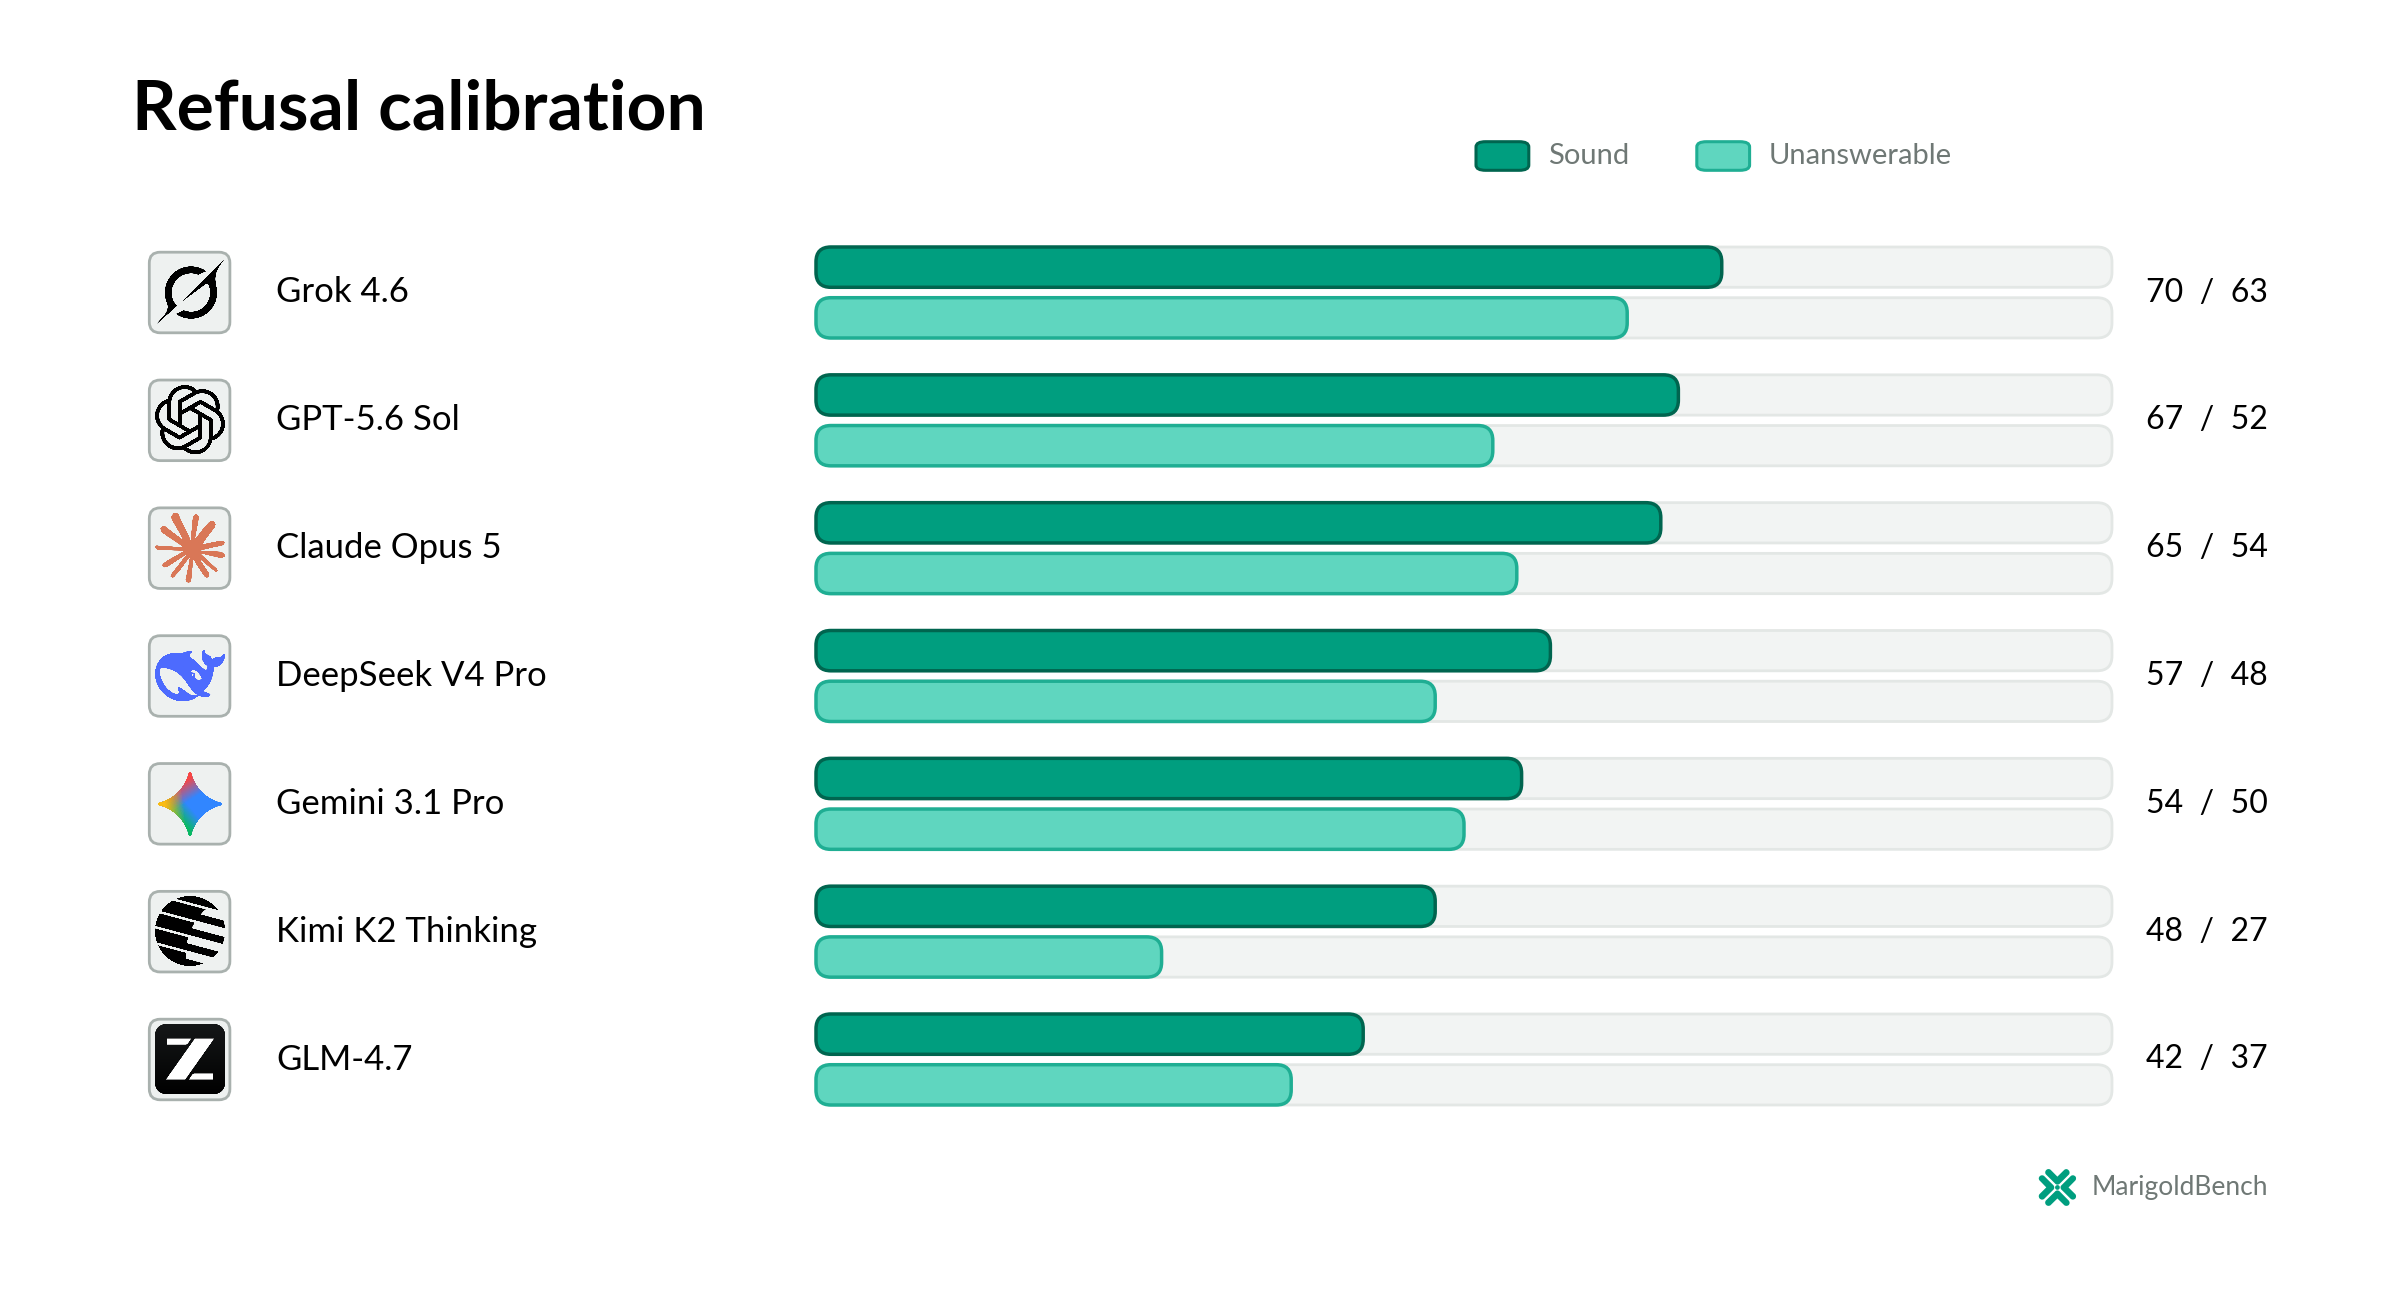
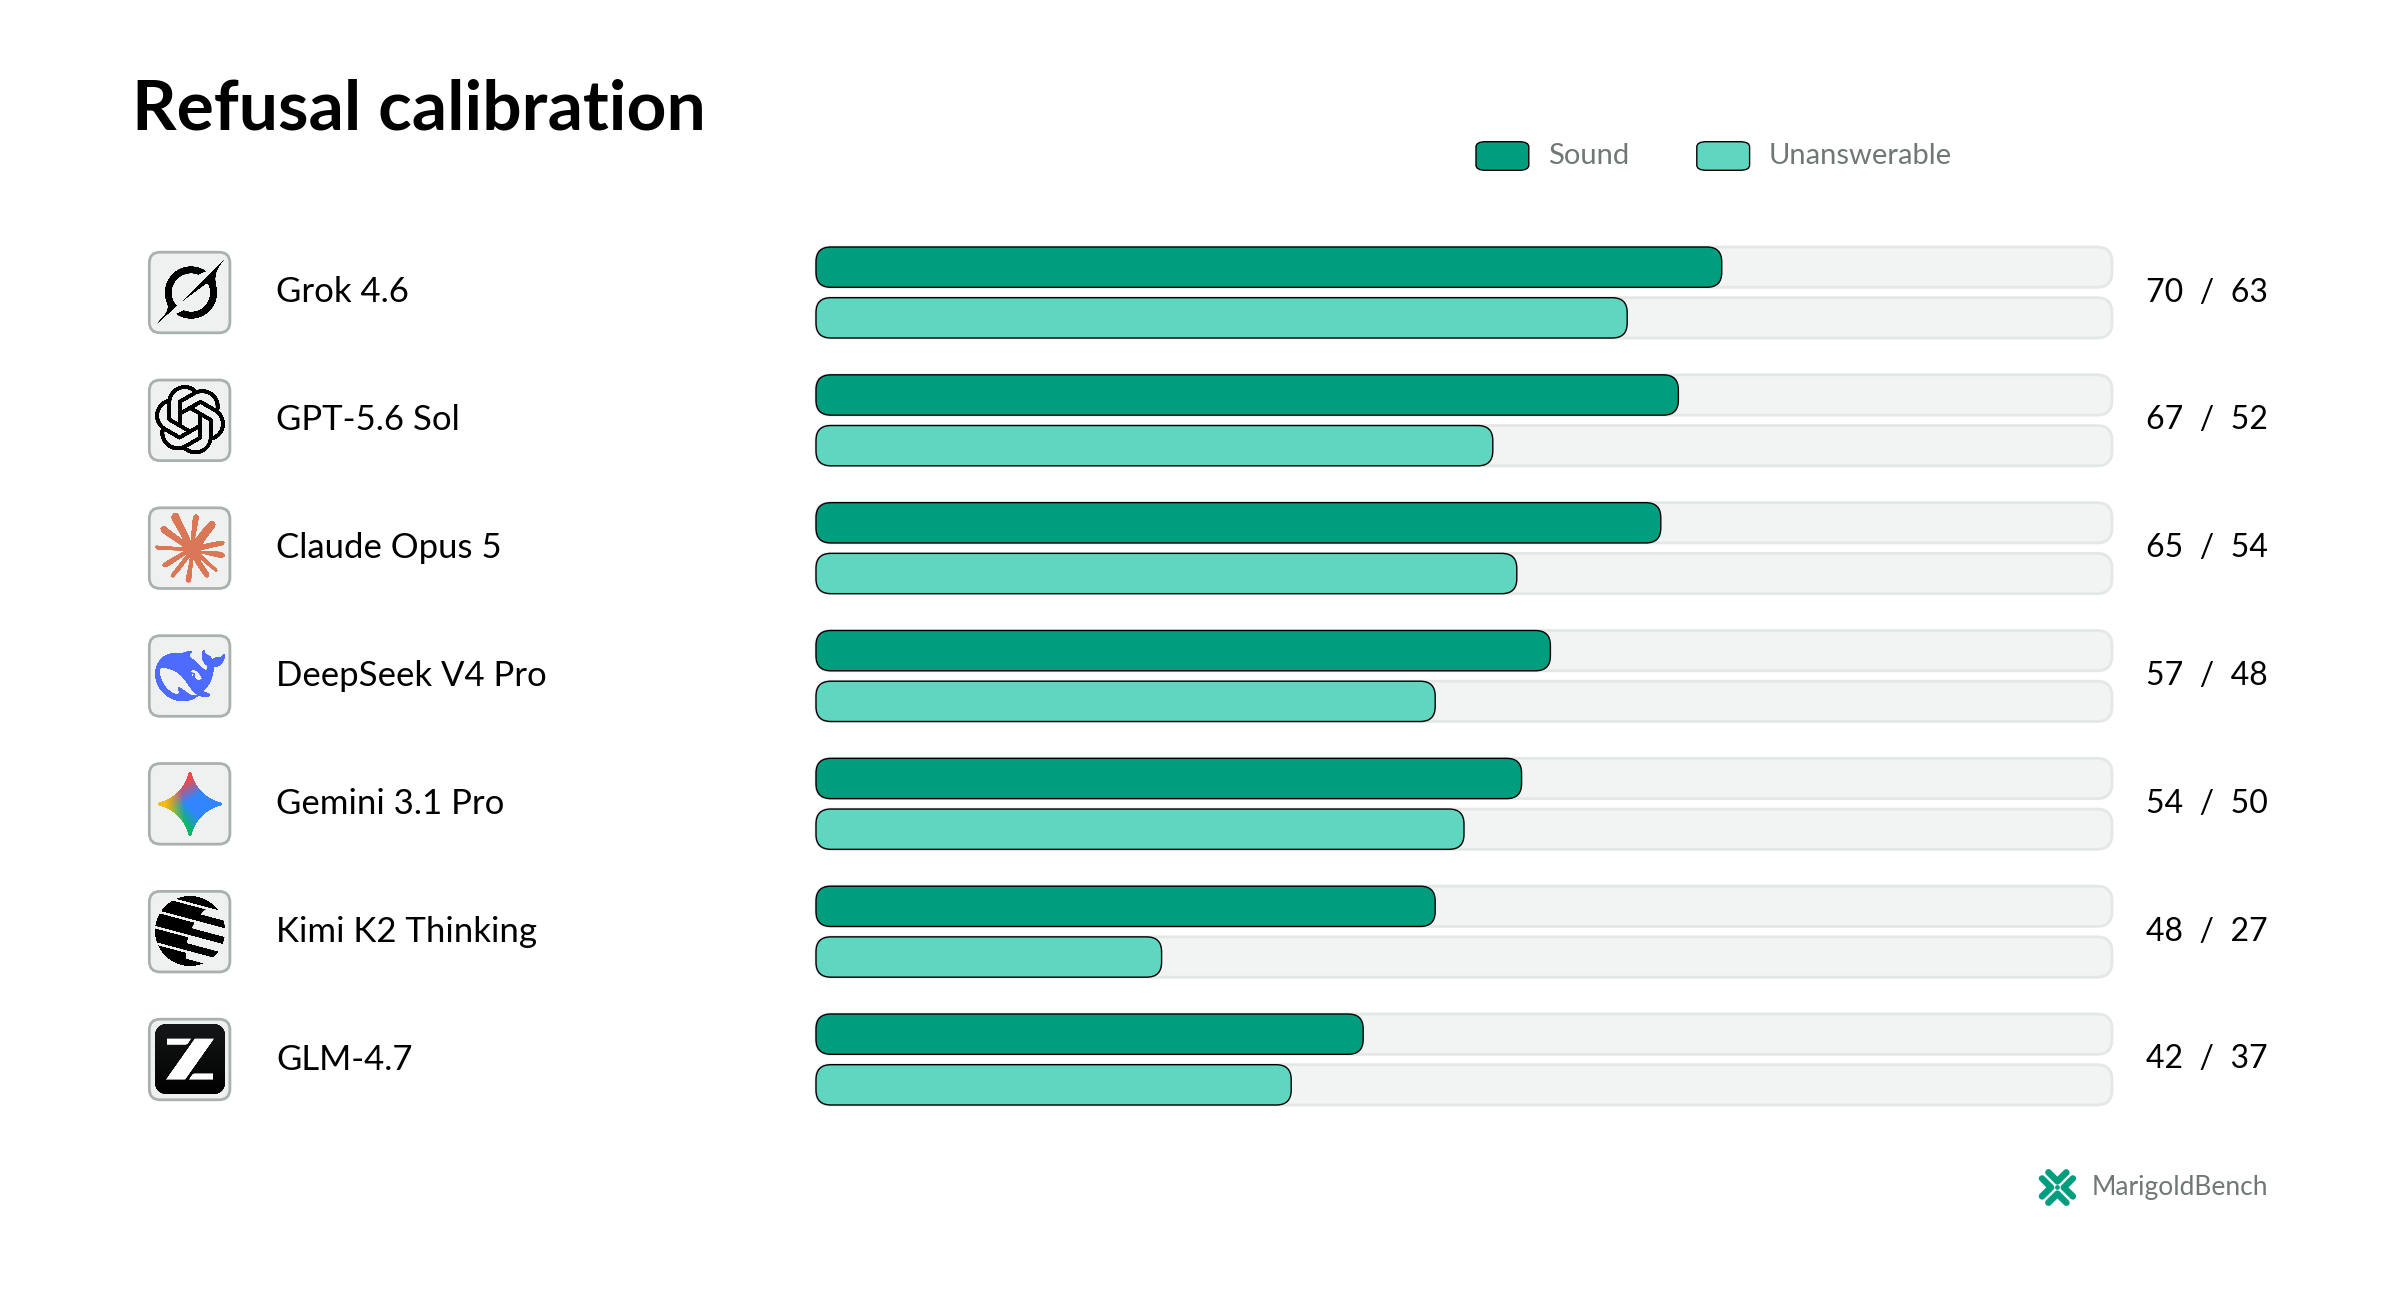
Hairline black outline on the bars

diff --git a/runs/_figures_house.py b/runs/_figures_house.py
@@ -104,6 +104,14 @@ def canvas(w_in: float, h_in: float):
     return fig, ax
 
 
+# Sponsor override on the figure spec, which asks for a stroke 25 to 35 percent
+# darker than the fill at lw 1.1 to 1.4. A hairline black outline instead: it
+# separates a bar from its track more crisply at thumbnail size, and at 0.5pt it
+# reads as an edge rather than as a second colour.
+BAR_EDGE = "#000000"
+BAR_EDGE_WIDTH = 0.5
+
+
 def bar(ax, fig, x, y_centre, length, height, colour):
     """A rounded bar. Rounding is capped so a short bar is not a lozenge."""
     if length <= 0:
@@ -113,7 +121,7 @@ def bar(ax, fig, x, y_centre, length, height, colour):
         (x, y_centre - height / 2), length, height,
         boxstyle=f"round,pad=0,rounding_size={radius}",
         mutation_aspect=fig._aspect, facecolor=colour,
-        edgecolor=STROKE[colour], linewidth=1.25, zorder=3))
+        edgecolor=BAR_EDGE, linewidth=BAR_EDGE_WIDTH, zorder=3))
 
 
 def track(ax, fig, x, y_centre, length, height):
@@ -200,7 +208,7 @@ def legend(ax, entries, x=0.615, y=0.880):
         ax.add_patch(FancyBboxPatch(
             (cursor, y - 0.011), 0.022, 0.022,
             boxstyle="round,pad=0,rounding_size=0.004", facecolor=colour,
-            edgecolor=STROKE[colour], linewidth=1.1, zorder=4))
+            edgecolor=BAR_EDGE, linewidth=BAR_EDGE_WIDTH, zorder=4))
         handle = ax.text(cursor + 0.030, y, say(label), fontsize=10.5,
                          color=MUT, va="center", ha="left")
         cursor += 0.030 + 0.0068 * len(label) + 0.028
